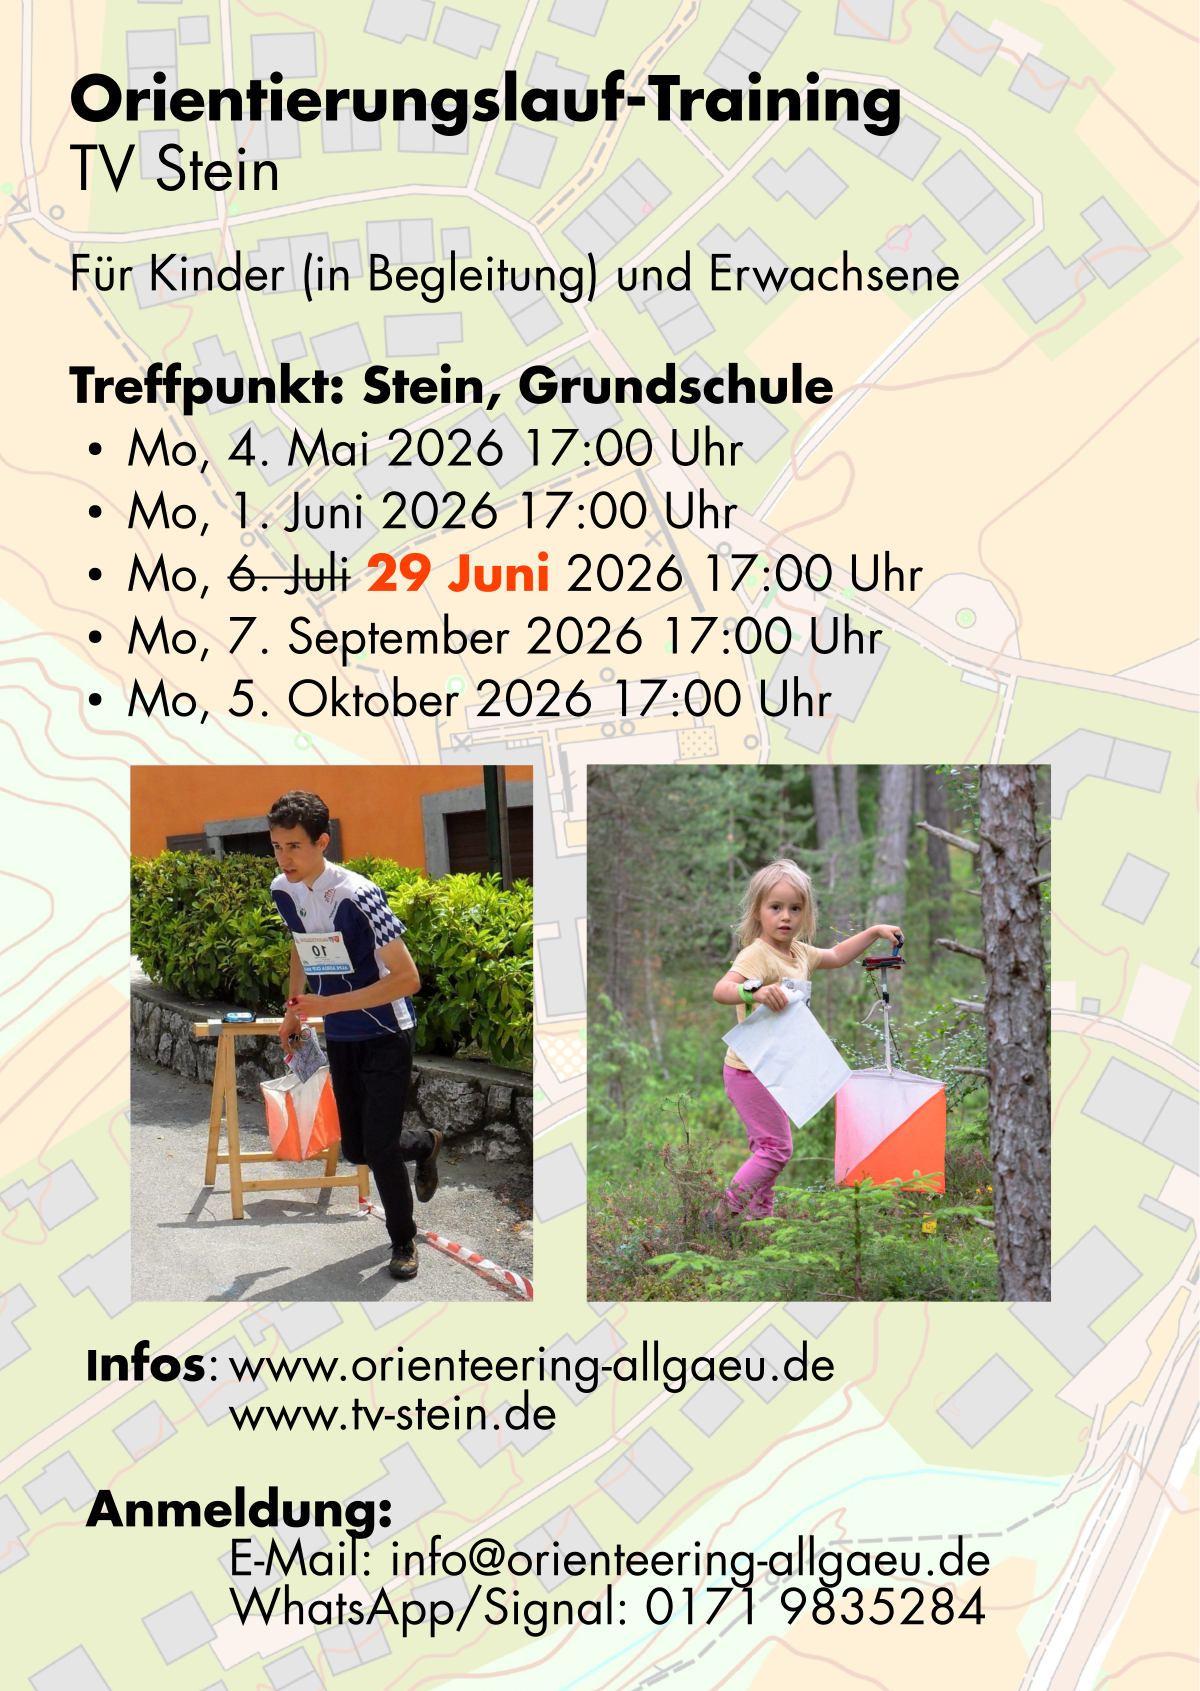
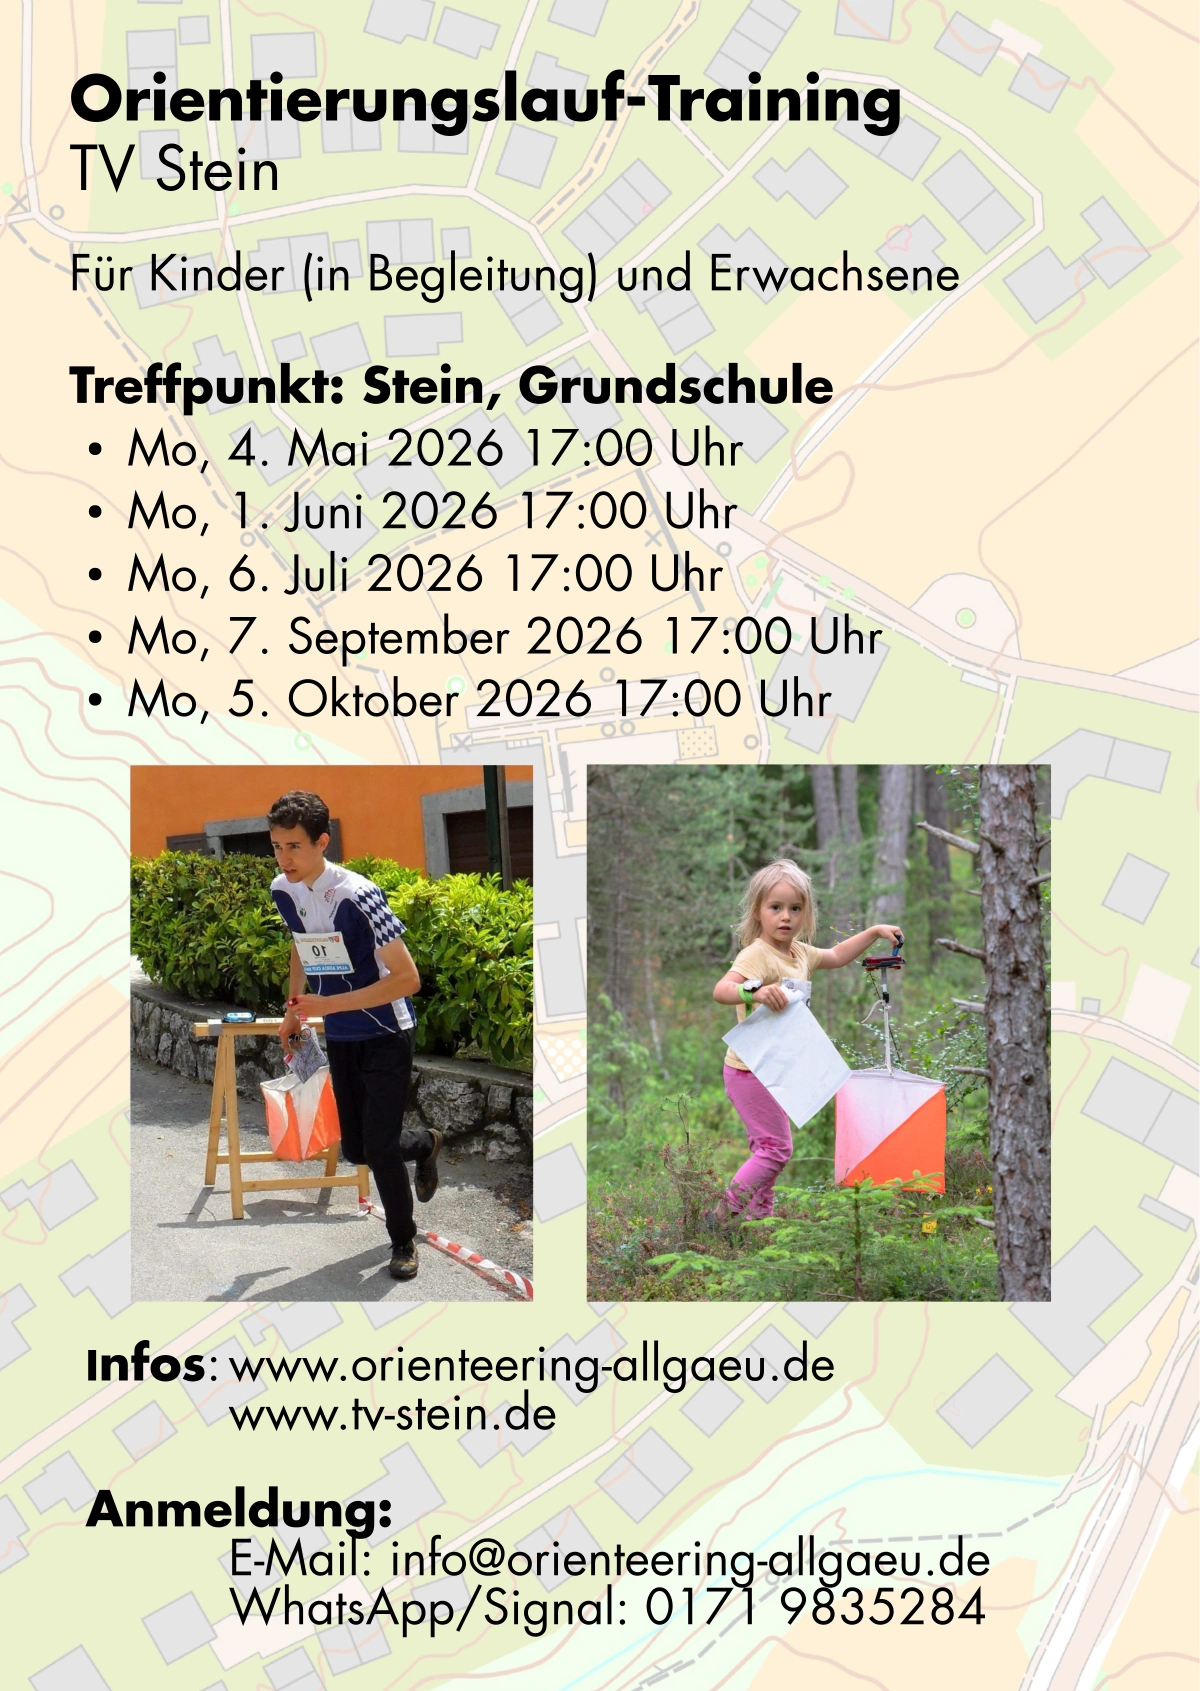
Update Training

Changed region(s): [[0.3083, 0.3075, 0.6167, 0.369], [0.7092, 0.3075, 0.7708, 0.369], [0.6475, 0.3075, 0.6783, 0.369]]

diff --git a/content/termine/_index.md b/content/termine/_index.md
@@ -12,9 +12,9 @@ layout: "events"
 | So, 26. April 2026, 12:30-16:30 Uhr | Schnupper-OL im Rahmen des verkaufoffenen Sonntags in Immenstadt  | Treffpunkt [Parkplatz bei Alpsee Bikes](https://maps.app.goo.gl/4V1nfkMvu2kqyLHR8) (ehem. Baby Bolz)  |
 | Mo, 4. Mai 2026 17:00 Uhr | OL Training | Treffpunkt [Stein, Grundschule](https://maps.app.goo.gl/PYzWn2jVrvo3Japv7) |
 | Mo, 1. Juni 2026 17:00 Uhr | OL Training | Treffpunkt [Stein, Grundschule](https://maps.app.goo.gl/PYzWn2jVrvo3Japv7) |
-| Mo, ~~6. Juli~~ 29. Juni 2026 17:00 Uhr | OL Training | Treffpunkt [Stein, Grundschule](https://maps.app.goo.gl/PYzWn2jVrvo3Japv7) |
+| Mo, 6. Juli 2026 17:00 Uhr | OL Training | Treffpunkt [Stein, Grundschule](https://maps.app.goo.gl/PYzWn2jVrvo3Japv7) |
 | Mo, 7. September 2026  17:00 Uhr | OL Training | Treffpunkt [Stein, Grundschule](https://maps.app.goo.gl/PYzWn2jVrvo3Japv7) |
-| Mo, 5. Oktober 2026 17:00 Uhr | OL Training | Treffpunkt [Stein, Grundschule](https://maps.app.goo.gl/PYzWn2jVrvo3Japv7) |
+| Mo, 5. Oktober 2026 17:00 Uhr | OL Training | Treffpunkt [**Rettenberg**, Grundschule](https://maps.app.goo.gl/En8ChrR7entwNSA49) |
 
 # Vergangene Veranstaltungen
 

diff --git a/content/posts/2026-04-15_training-tv-stein.md b/content/posts/2026-04-15_training-tv-stein.md
@@ -15,5 +15,6 @@ Es gibt Lauf- und Kartentraining sowohl für Kinder als auch für Erwachsene. Ge
 in angrenzenden Waldstücken.  
 
 Treffpunkt ist bei der [Grundschule in Stein](https://maps.app.goo.gl/PYzWn2jVrvo3Japv7) (Pausenhof).
+**Am 5. Oktober 2026** ist der Treffpunkt bei der [Grundschule in **Rettenberg**](https://maps.app.goo.gl/En8ChrR7entwNSA49).
 
 ![Flyer Training](/img/posts/2026-04-15_ol-training/ol-training.webp)
